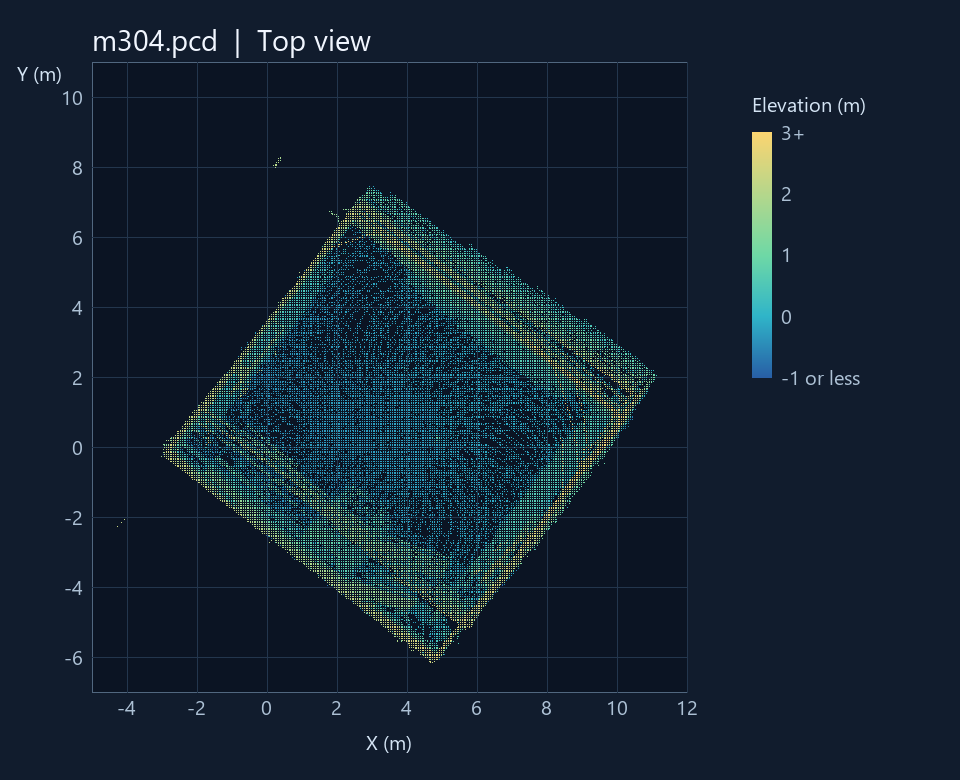
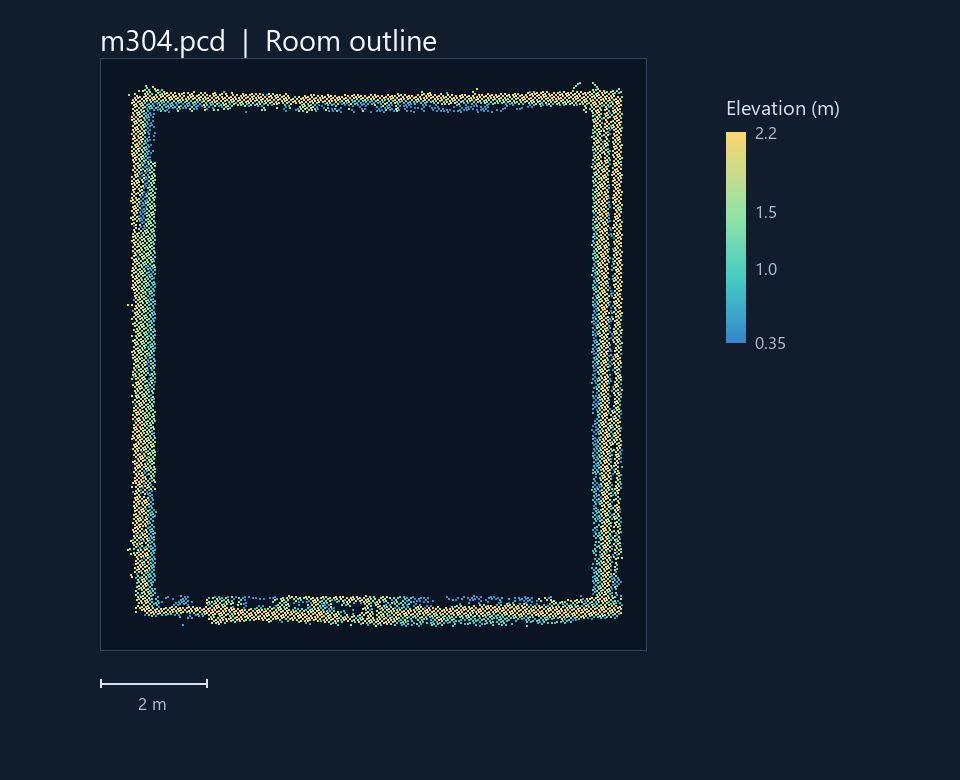
Clarify room outline in indoor map preview

diff --git a/README.md b/README.md
@@ -50,7 +50,7 @@ HDL Graph SLAM으로 3D 점군 지도를 저장합니다. 주행할 때는 HDL L
 
 <table>
 <tr>
-<td width="50%"><a href="media/indoor-map-m304.png"><img src="media/indoor-map-m304.png" alt="m304 실내 점군 지도를 위에서 본 모습"></a></td>
+<td width="50%"><a href="media/indoor-map-m304.png"><img src="media/indoor-map-m304.png" alt="m304 실내 점군에서 네 벽 주변의 점을 표시한 방 외곽"></a></td>
 <td width="50%"><a href="media/outdoor-map.png"><img src="media/outdoor-map.png" alt="야외 점군 지도를 위에서 본 모습"></a></td>
 </tr>
 <tr>
@@ -59,7 +59,7 @@ HDL Graph SLAM으로 3D 점군 지도를 저장합니다. 주행할 때는 HDL L
 </tr>
 </table>
 
-각 지도의 주요 구간을 위에서 본 모습입니다. 색은 높이를 나타내며, 가로·세로 축과 높이 범례의 범위는 지도마다 다릅니다. 아래 실행 예시는 실내 지도 `m304.pcd`를 사용합니다.
+실내 지도 이미지는 방 벽 방향에 맞춰 회전하고, 네 벽 주변의 점만 표시했습니다. 야외 지도는 주요 구간을 위에서 본 모습입니다. 두 이미지에서 색은 점의 높이를 나타냅니다. 아래 실행 예시는 실내 지도 `m304.pcd`를 사용합니다.
 
 ### 2. DWA 접근 주행과 단계 전환
 
